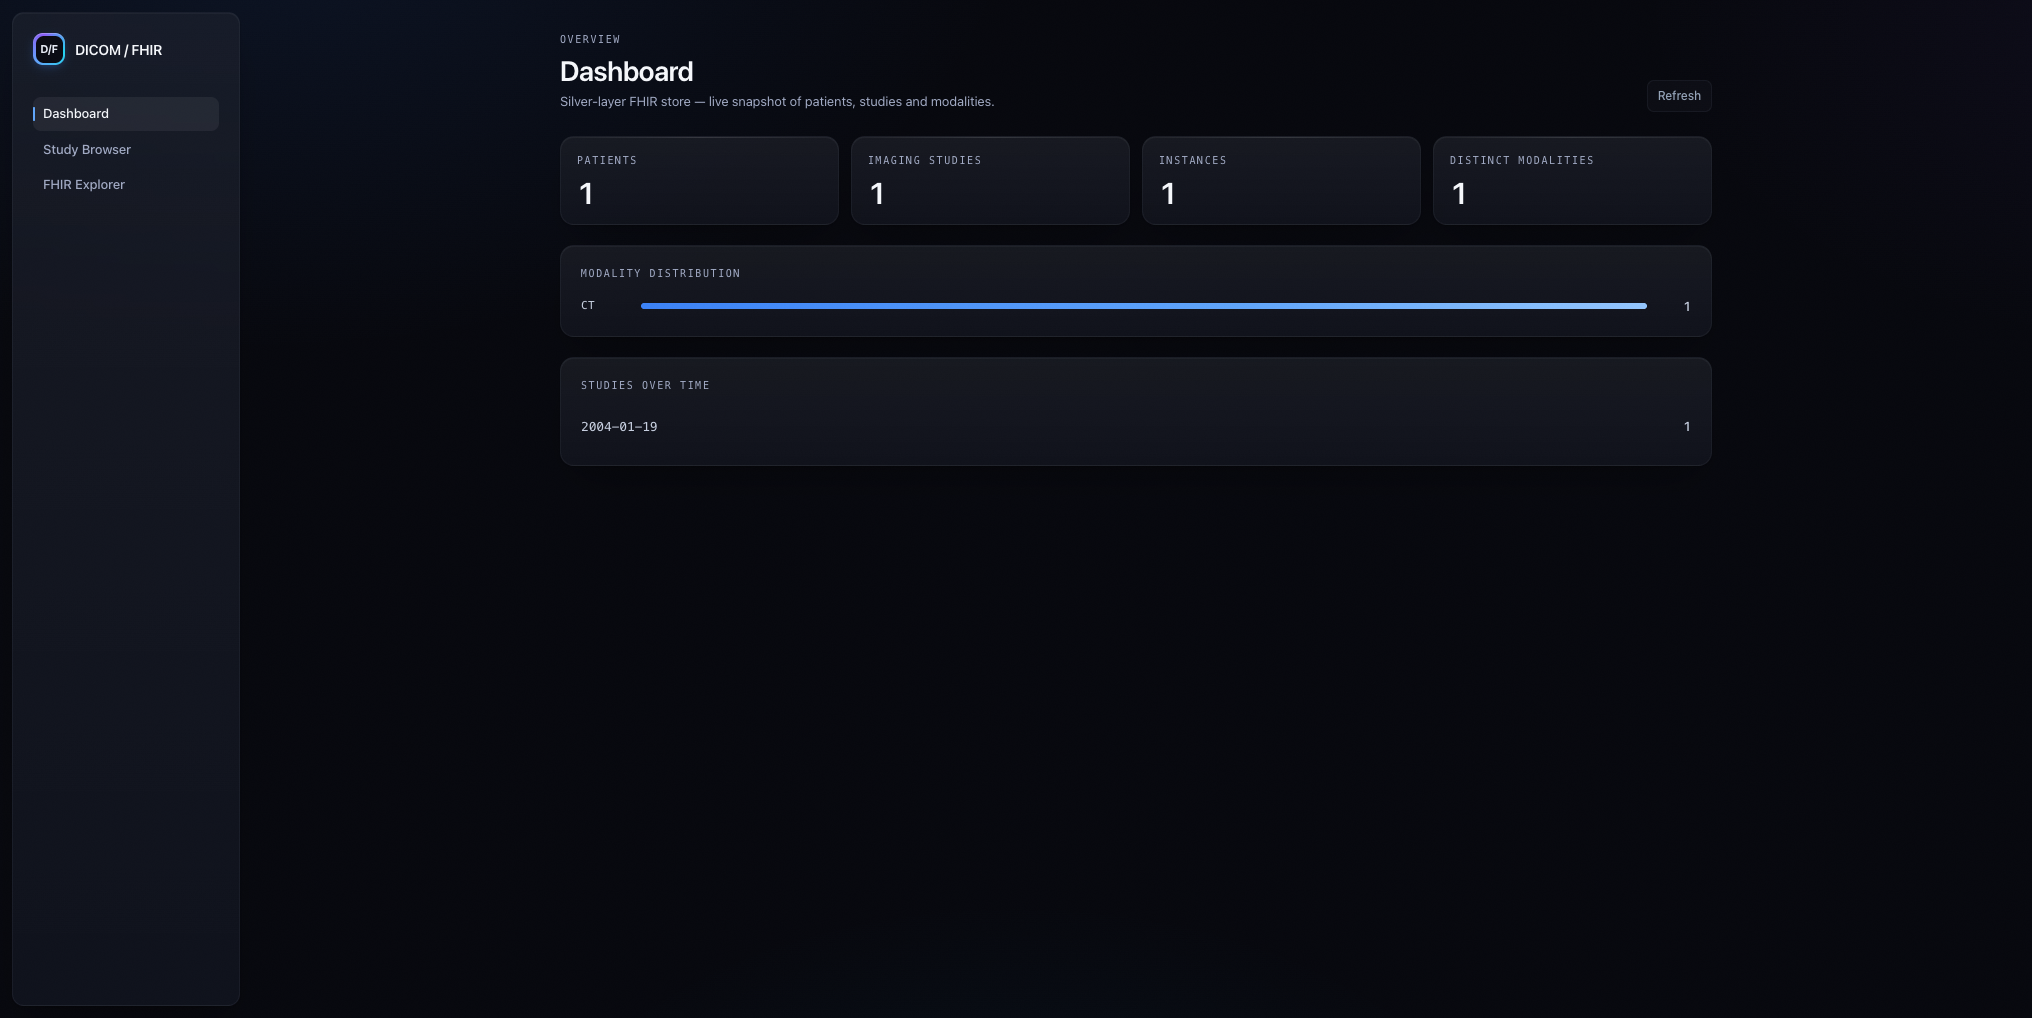
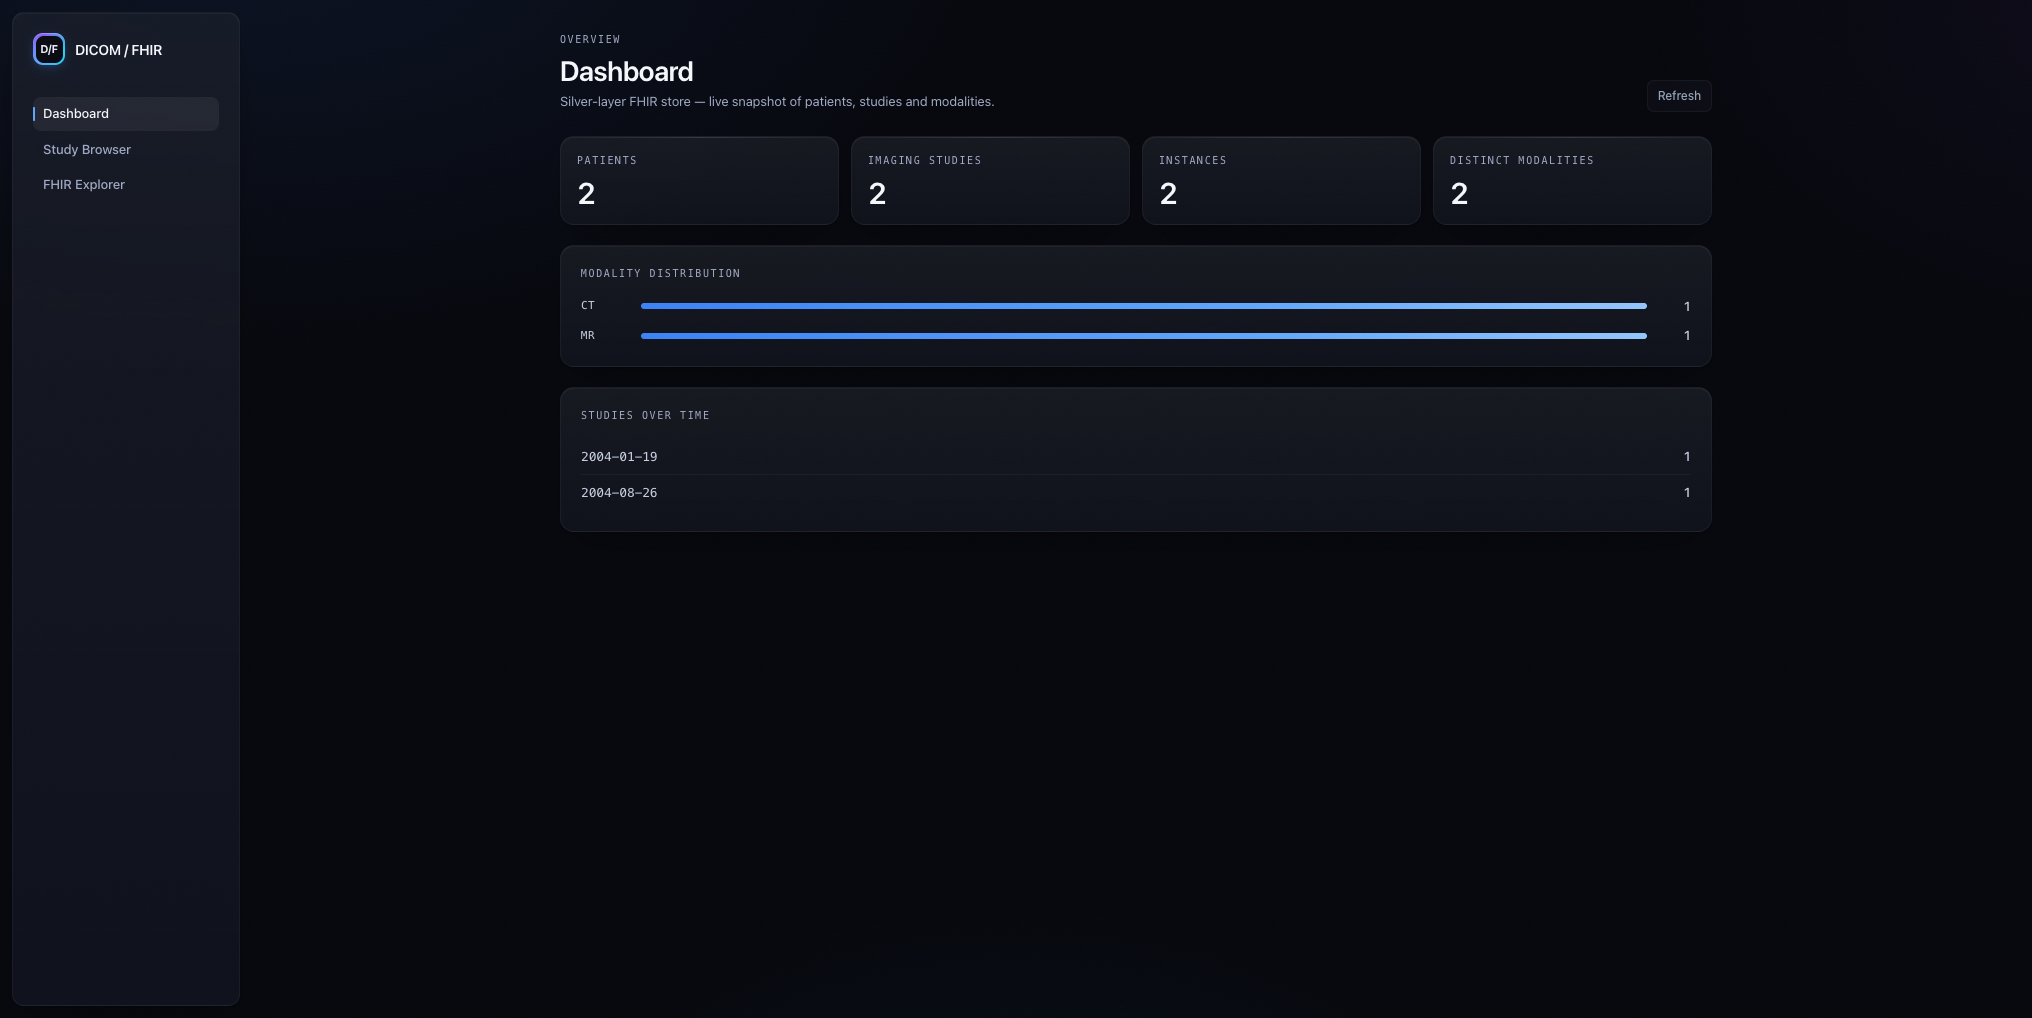
docs: swap CT_small for MR_small in study-detail preview
CT_small.dcm is a 128×128 slice with a narrow window; the sample
renders almost solid black in the viewer and fails to show off the
window/level controls. Add pydicom's MR_small.dcm (MIT-licensed 64×64
head MR) alongside it so the repo ships both modalities — the dashboard
now reflects the 2/2/2/2 stats from the original README and
study-detail shows a legible greyscale image.

Changed region(s): [[0.31, 0.3045, 0.8061, 0.335], [0.279, 0.3959, 0.341, 0.4872]]

diff --git a/README.md b/README.md
@@ -44,7 +44,7 @@ cd frontend && npm i && npm run dev &
 
 Open **http://localhost:5173** and drop a `.dcm` file onto the upload zone.
 
-A public test file ships in `sample-data/CT_small.dcm`.
+Public test files ship in `sample-data/`: `CT_small.dcm` (GDCM) and `MR_small.dcm` (pydicom, MIT).
 
 ## Screenshots
 
